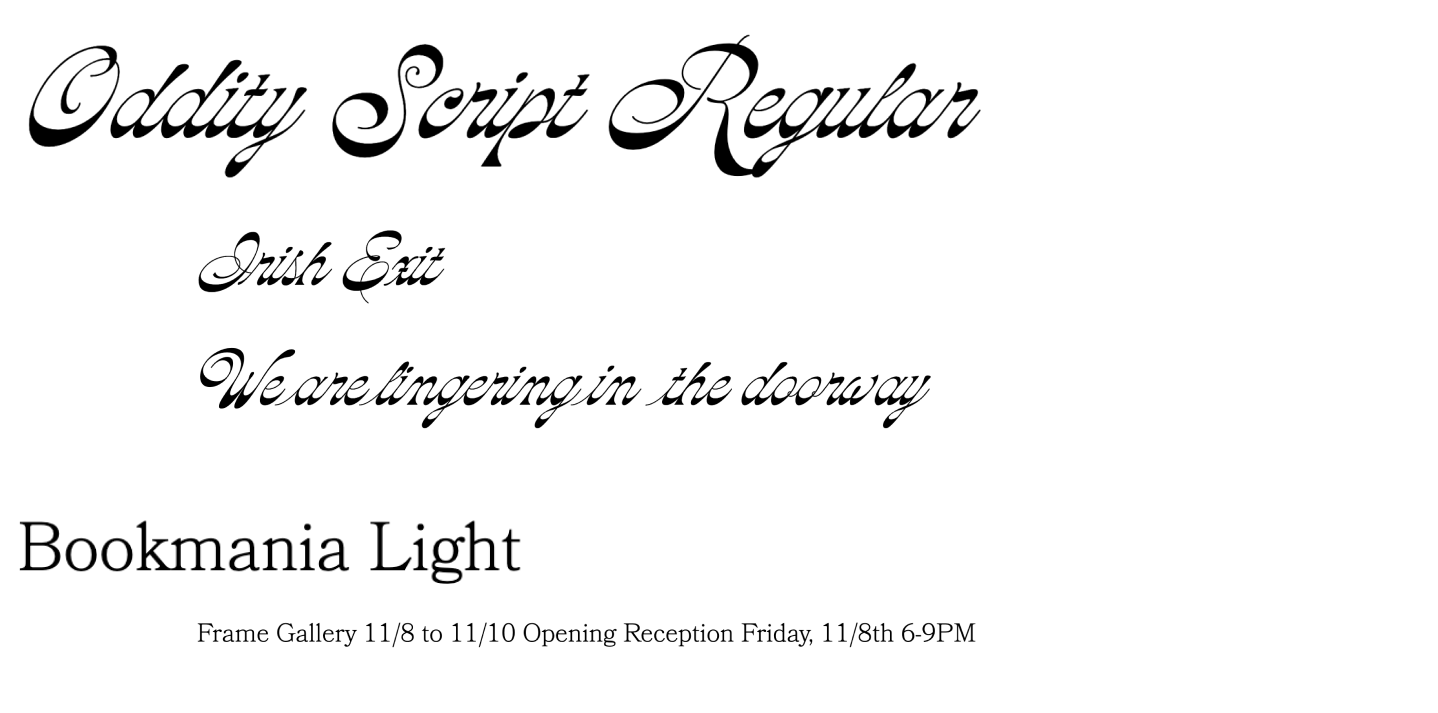
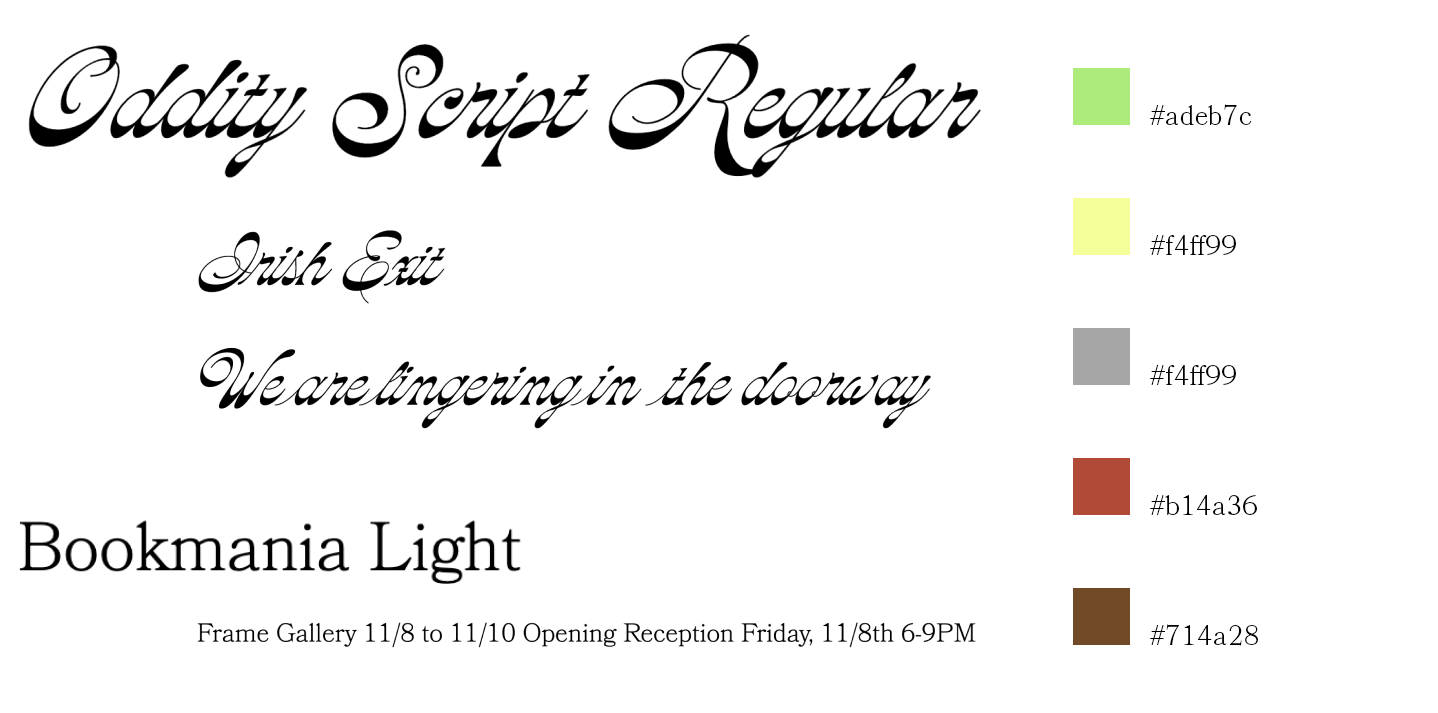
added branding colors

diff --git a/pages/tech/irish.html b/pages/tech/irish.html
@@ -65,7 +65,7 @@
             <h2>Typeface Pairing:</h2>
             <p class = "text">
                 An Irish Exit is a quiet goodbye. Thus, I wanted to choose a typeface that felt peaceful, patient, but still had personality. Another challenge was to find a typeface that was bold without distracting from the art pieces. <br><br>
-                Oddity Script has very striking design traits. To contrast the bold curves, I opted for Bookmania Light for the body.
+                Oddity Script has very striking design traits. To contrast the bold curves, I opted for Bookmania Light for the body. The combination of muted and saturated colors were taken from the pieces in the gallery.
             </p>
 
             <div class="reveal">
